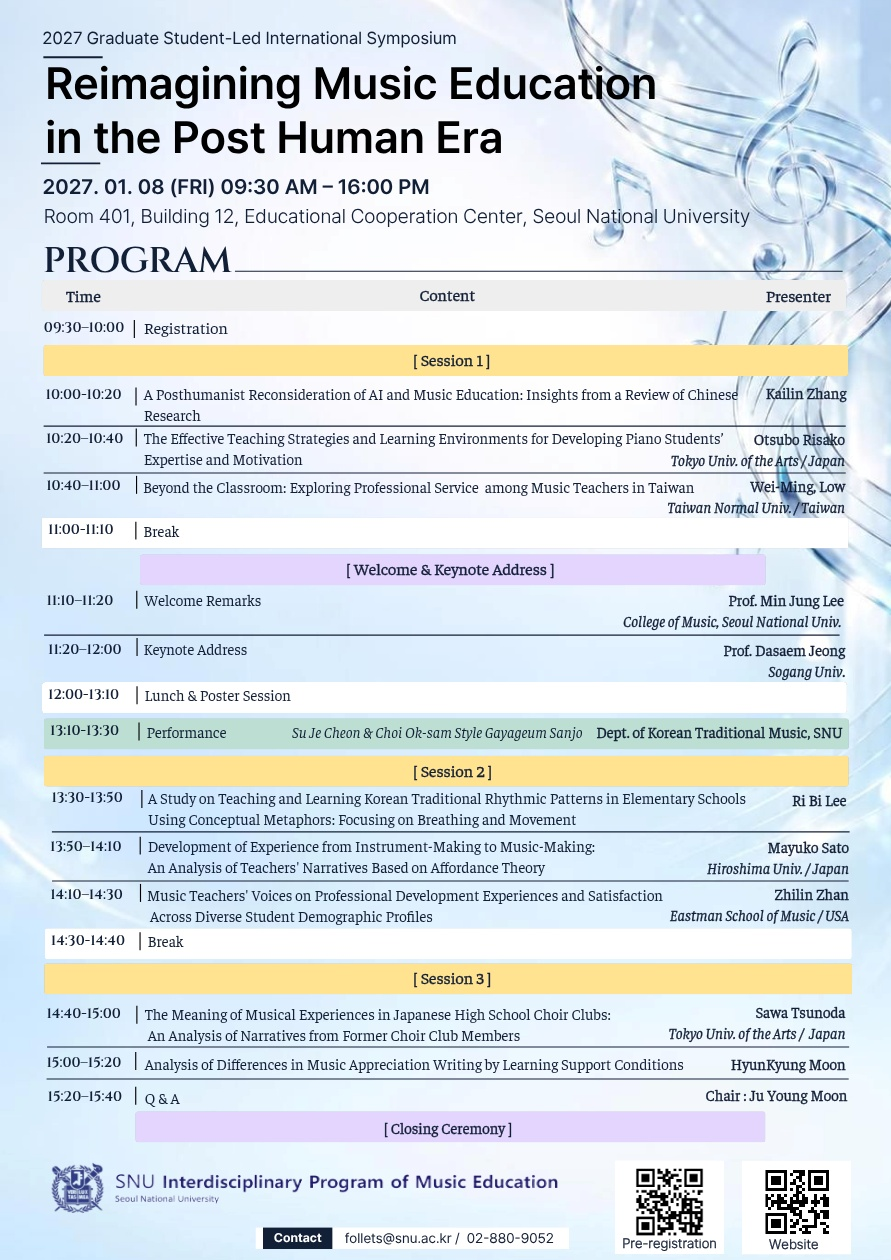
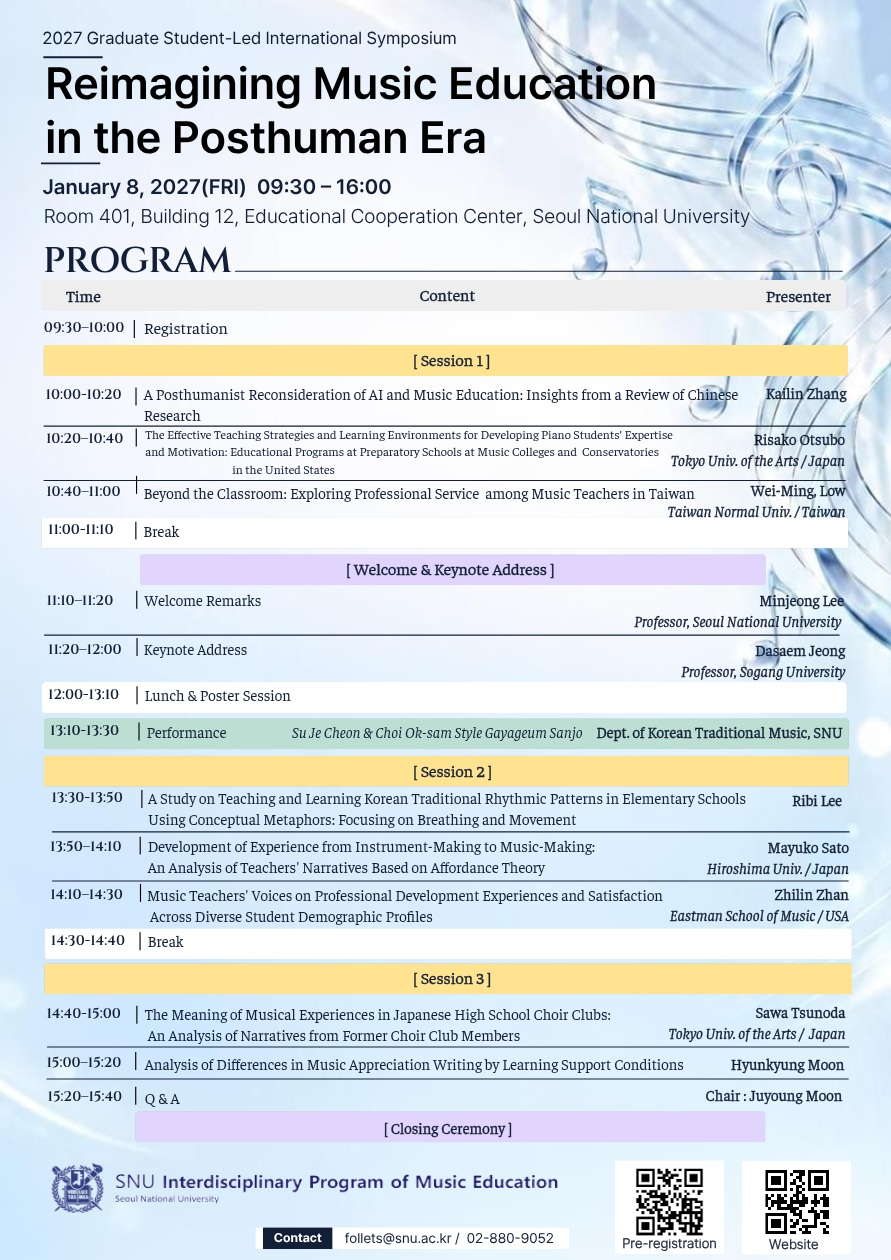
홈페이지 배포 2026-11-18 16:35

diff --git a/index.html b/index.html
@@ -525,7 +525,7 @@ small[lang="ko"]{font-size:12px;color:var(--muted);font-weight:400;margin-left:2
     </div>
     <div class="session">
       <h2 class="session-title"><span class="ko">환영 및 기조강연</span><span class="en">Welcome &amp; Keynote Address</span><small>11:10–12:00</small></h2>
-      <div class="slim"><span class="time">11:10–11:20</span><span><b><span class="ko">환영 인사</span><span class="en">Welcome Remarks</span></b> · <span class="ko">이민정 (서울대학교 사범대학 협동과정 음악교육전공 주임교수)</span><span class="en">Min Jung Lee (Program Chair, Interdisciplinary Program of Music Education at College of Education, Seoul National University)</span></span></div>
+      <div class="slim"><span class="time">11:10–11:20</span><span><b><span class="ko">환영 인사</span><span class="en">Welcome Remarks</span></b> · <span class="ko">이민정 (서울대학교 사범대학 협동과정 음악교육전공 주임교수)</span><span class="en">Minjeong Lee (Program Chair, Interdisciplinary Program of Music Education at College of Education, Seoul National University)</span></span></div>
       <article class="talk">
         <div class="who"><a class="pl" href="https://jdasam.github.io/" target="_blank" rel="noopener"><span class="ko">정다샘</span><span class="en">Dasaem Jeong</span></a><span class="aff">(<span class="ko">서강대학교 교수</span><span class="en">Professor, Sogang University</span>)</span></div>
         <p class="title"><span class="kind"><span class="ko">기조강연</span><span class="en">Keynote</span></span><span class="tba"><span class="ko">제목 추후 공개</span><span class="en">Title to be announced</span></span></p>
@@ -706,20 +706,18 @@ small[lang="ko"]{font-size:12px;color:var(--muted);font-weight:400;margin-left:2
       <div class="opts">
         <div class="opt"><div class="n">1</div><div>
           <h3>Airport Limousine Bus <span class="pill">Bus 6017 · recommended</span></h3>
-          <p>Board bus 6017 at Terminal 1 (1F, Gate 6B) or Terminal 2 (B1F Transportation Center, platform 27). Buy a ticket first at the airport limousine counter or ticket machine (Terminal 1: 1F arrivals hall; Terminal 2: B1F).</p>
-          <p>Stay on to the last stop, <b>Hoam Faculty House</b> <small lang="ko">호암교수회관</small>.</p>
-          <div class="meta"><span>70–110 min</span><span>KRW 17,000</span></div>
+          <p>Buy a ticket for bus 6017 at the airport limousine counter, then board at the airport bus stop. Stay on to the last stop, <b>Hoam Faculty House</b> <small lang="ko">호암교수회관</small>.</p>
+          <div class="meta"><span>KRW 17,000</span></div>
         </div></div>
         <div class="opt"><div class="n">2</div><div>
           <h3>Airport Railroad + Subway + Village Bus <span class="pill">AREX · Line 2 · Bus</span></h3>
           <p>Take the AREX all-stop train to <b>Hongik Univ. Station</b> <small lang="ko">홍대입구역</small>. Change to Line 2 toward Sindorim and get off at <b>Nakseongdae Station</b> <small lang="ko">낙성대역</small>.</p>
-          <p>From Exit 4, take village bus <b>관악(Gwanak) 02-1</b> or <b>관악(Gwanak) 02-2</b> to the Hoam Faculty House stop (the first stop).</p>
-          <div class="meta"><span>100–120 min</span><span>About KRW 5,000 with a T-money card</span></div>
+          <p>At Nakseongdae Station, take village bus <b>관악(Gwanak) 02-1</b> or <b>관악(Gwanak) 02-2</b> and get off at the first stop, <b>Hoam Faculty House</b> <small lang="ko">호암교수회관</small>.</p>
+          <div class="meta"><span>Pay with a T-money card</span></div>
         </div></div>
         <div class="opt"><div class="n">3</div><div>
           <h3>Taxi <span class="pill">Door to door</span></h3>
-          <p>Taxis wait outside the arrivals hall. Ask for <b>Seoul National University Hoam Faculty House</b> <small lang="ko">서울대학교 호암교수회관</small>.</p>
-          <div class="meta"><span>60–80 min, depending on traffic</span></div>
+          <p>Show the driver: <b>Seoul National University Hoam Faculty House</b> <small lang="ko">서울대학교 호암교수회관</small>.</p>
         </div></div>
       </div>
       <div class="links" style="margin-top:12px"><a class="chip" href="https://www.google.com/maps/dir/?api=1&amp;origin=Incheon+International+Airport&amp;destination=Hoam+Faculty+House,+Seoul+National+University&amp;travelmode=transit" target="_blank" rel="noopener"><svg class="mi" viewBox="0 0 20 20" aria-hidden="true"><path d="M10 1.5a6 6 0 0 0-6 6c0 4.4 6 11 6 11s6-6.6 6-11a6 6 0 0 0-6-6z" fill="#EA4335"/><circle cx="10" cy="7.5" r="2.3" fill="#fff"/></svg>Directions in Google Maps</a></div>
@@ -751,7 +749,6 @@ small[lang="ko"]{font-size:12px;color:var(--muted);font-weight:400;margin-left:2
         <div class="opt"><div class="n">A</div><div>
           <h3>On Foot <span class="pill">Walk</span></h3>
           <p>From Hoam, walk along the main campus road through the SNU Back Gate <small lang="ko">서울대 후문</small>, past the Gwanak Residence Halls <small lang="ko">관악학생생활관</small>, to Gisuksa Samgeori <small lang="ko">기숙사삼거리</small>, then on to Building 12.</p>
-          <div class="meta"><span>About 25–30 min · 1.2 km</span></div>
         </div></div>
         <div class="opt"><div class="n">B</div><div>
           <h3>Village Bus <span class="pill">관악(Gwanak) 02-1</span></h3>
@@ -766,7 +763,7 @@ small[lang="ko"]{font-size:12px;color:var(--muted);font-weight:400;margin-left:2
             <li class="on"><span>Nocheon Gangdang <small lang="ko">노천강당</small></span><em>Get off</em></li>
           </ol>
           <p>Building 12 is a short walk from the stop. Room 401 is on the 4th floor.</p>
-          <div class="meta"><span>About 7 min (bus 4 min) · KRW 1,200</span><span>Tap your T-money card when you board</span></div>
+          <div class="meta"><span>Bus ride about 4 min · KRW 1,200</span><span>Tap your T-money card when you board</span></div>
           <!-- 가는 길 사진: photos/route-1.jpg ~ route-3.jpg(순서 번호·표시를 사진에 그려 넣음). 썸네일을 누르면 큰 사진이 바뀐다. 캡션은 .c 안에 쓴다 -->
           <div class="slider" data-slider style="margin-top:18px">
             <div class="main"><img src="photos/route-1.jpg" alt=""><span class="cap"></span></div>
